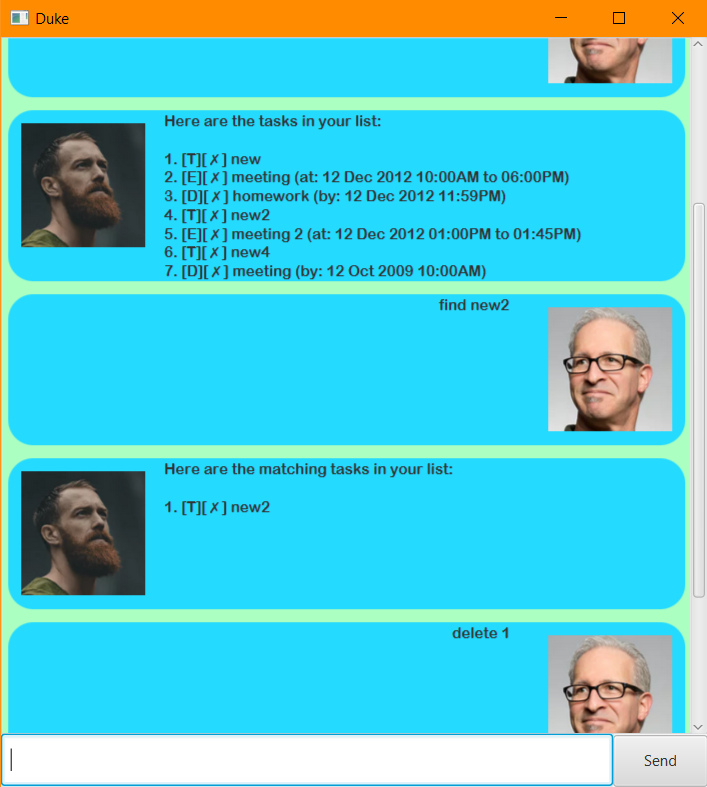
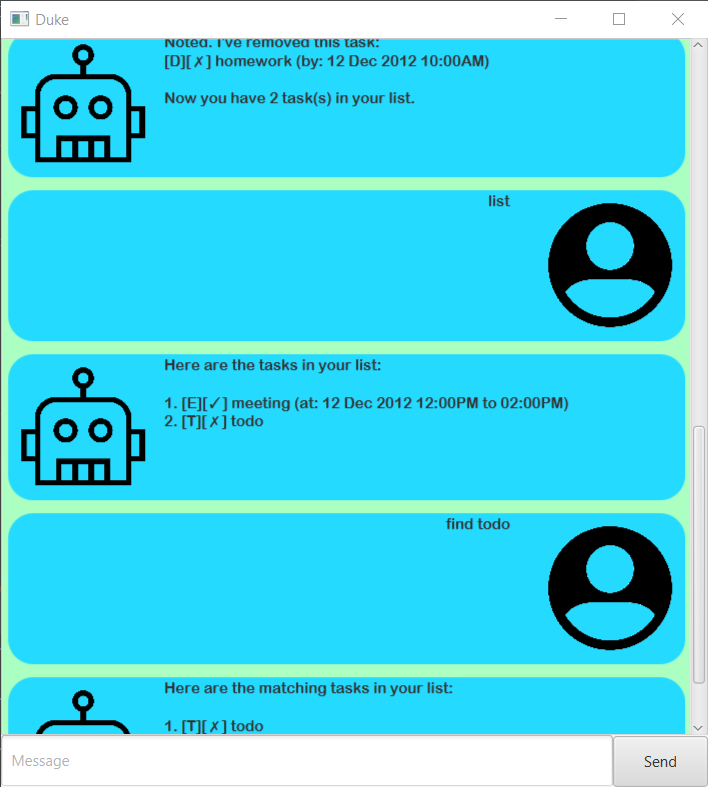
Updated ui

diff --git a/src/main/java/duke/MainWindow.java b/src/main/java/duke/MainWindow.java
@@ -29,8 +29,8 @@ public class MainWindow extends AnchorPane {
 
     private Duke duke;
 
-    private Image userImage = new Image(this.getClass().getResourceAsStream("/images/DaUser.png"));
-    private Image dukeImage = new Image(this.getClass().getResourceAsStream("/images/DaDuke.png"));
+    private Image userImage = new Image(this.getClass().getResourceAsStream("/images/User.png"));
+    private Image dukeImage = new Image(this.getClass().getResourceAsStream("/images/Bot.png"));
 
     @FXML
     public void initialize() {

diff --git a/src/main/java/duke/DialogBox.java b/src/main/java/duke/DialogBox.java
@@ -7,7 +7,6 @@ import javafx.collections.FXCollections;
 import javafx.collections.ObservableList;
 import javafx.fxml.FXML;
 import javafx.fxml.FXMLLoader;
-import javafx.geometry.Insets;
 import javafx.geometry.Pos;
 import javafx.scene.Node;
 import javafx.scene.control.Label;
